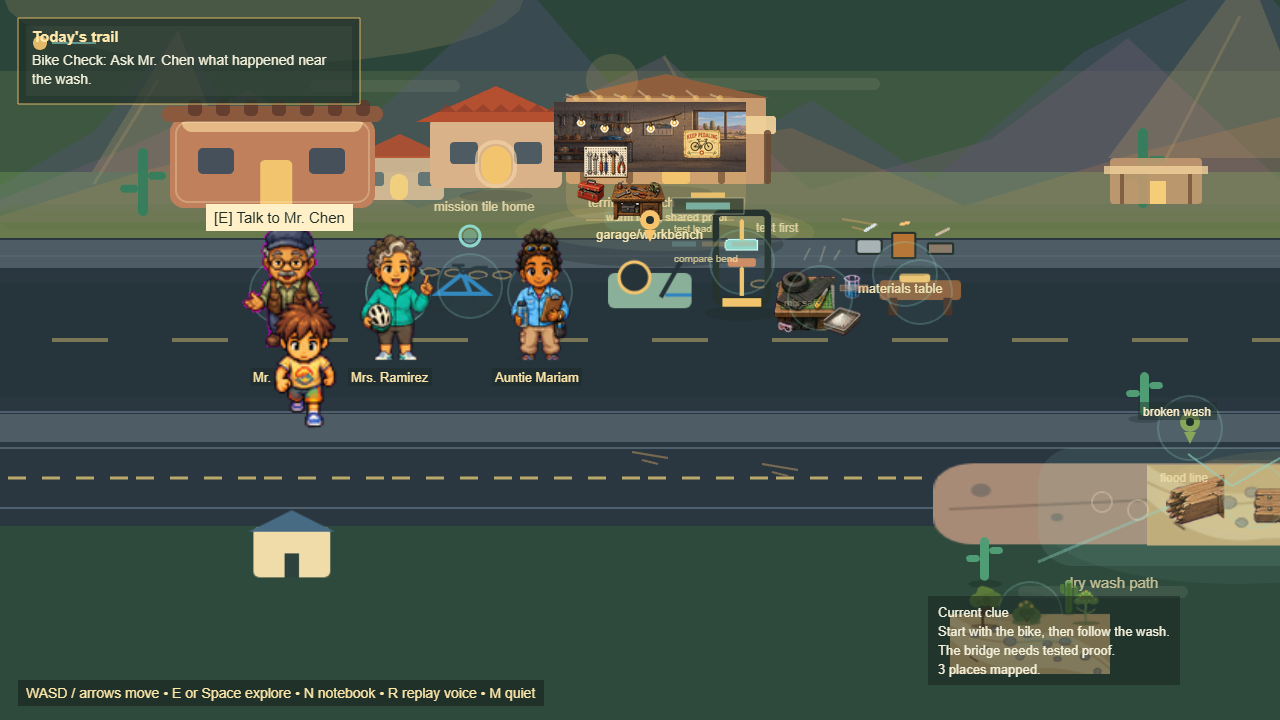
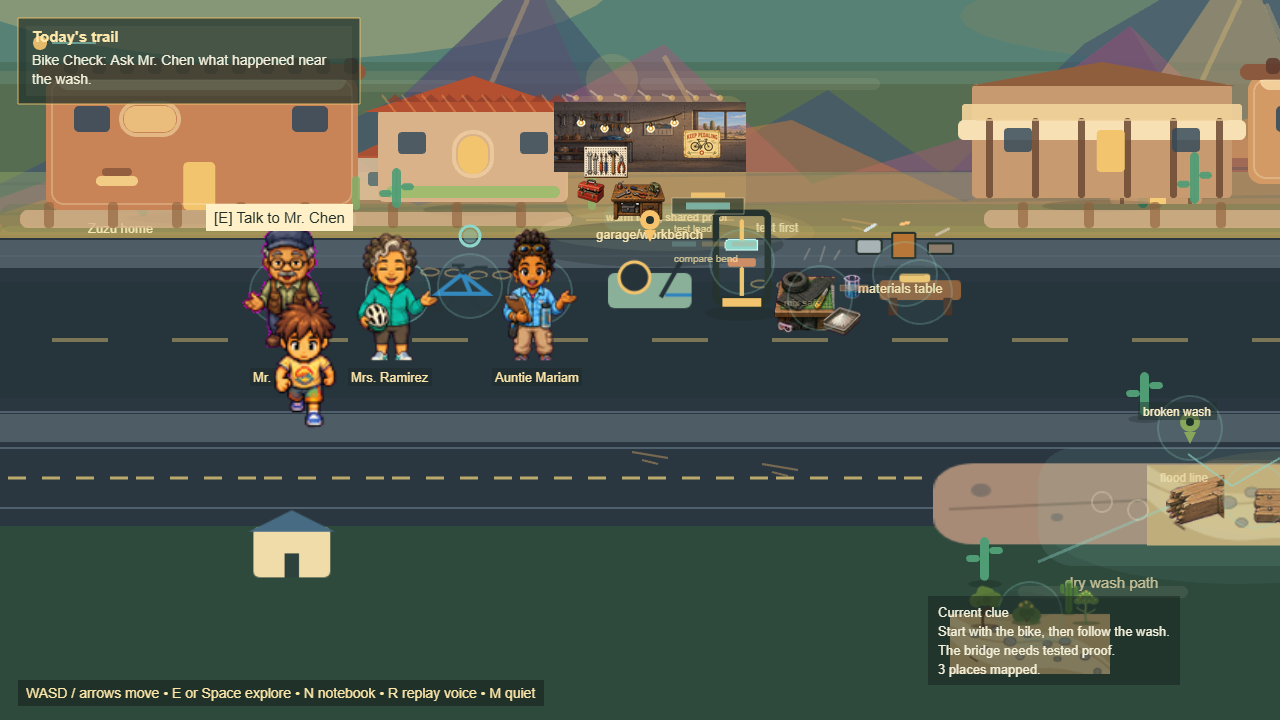
Strengthen Act 1 Arizona neighborhood backdrop

Changed region(s): [[0.0, 0.0, 1.0, 0.5194]]

diff --git a/src/game/phaser/scenes/NeighborhoodScene.js b/src/game/phaser/scenes/NeighborhoodScene.js
@@ -97,8 +97,9 @@ export default class NeighborhoodScene extends Phaser.Scene {
 
   createEnvironment() {
     this.add.rectangle(800, 500, 1600, 1000, 0x2e4a3d);
-    this.add.rectangle(800, 306, 1600, 178, 0x5e7249).setAlpha(0.34);
-    this.add.rectangle(800, 162, 1600, 110, 0x243b37).setAlpha(0.32);
+    this.add.rectangle(800, 238, 1600, 286, 0x7fb08f).setAlpha(0.22);
+    this.add.rectangle(800, 306, 1600, 178, 0x8a8d57).setAlpha(0.3);
+    this.add.rectangle(800, 128, 1600, 160, 0x7db3b8).setAlpha(0.2);
     this.drawSonoranVista();
     this.drawNeighborhoodColorLanguage();
 
@@ -201,37 +202,49 @@ export default class NeighborhoodScene extends Phaser.Scene {
 
   drawSonoranVista() {
     const vista = this.add.graphics();
-    vista.fillStyle(0xffd17a, 0.14).fillEllipse(264, 144, 520, 132);
-    vista.fillStyle(0xfff0c7, 0.12).fillEllipse(860, 118, 740, 56);
+    vista.fillStyle(0x8ed6c9, 0.16).fillRect(0, 0, 1600, 230);
+    vista.fillStyle(0xffd17a, 0.28).fillEllipse(282, 118, 680, 176);
+    vista.fillStyle(0xfff0c7, 0.2).fillEllipse(890, 98, 900, 70);
+    vista.fillStyle(0xf28f45, 0.1).fillEllipse(1240, 162, 560, 96);
 
     // Layered basin-and-range silhouettes, with softer Sonoran colors than the old triangle peaks.
     this.drawMountainRange(vista, [
-      [0, 332], [96, 276], [178, 176], [268, 316], [382, 254], [520, 126],
-      [686, 318], [812, 246], [932, 326], [1084, 198], [1248, 116],
-      [1390, 286], [1540, 178], [1600, 232], [1600, 356], [0, 356],
-    ], 0x4d526d, 0.42);
+      [0, 330], [88, 286], [172, 198], [268, 304], [402, 242], [532, 118],
+      [692, 314], [828, 236], [946, 322], [1084, 190], [1242, 98],
+      [1396, 276], [1542, 170], [1600, 224], [1600, 358], [0, 358],
+    ], 0x3f536f, 0.64);
     this.drawMountainRange(vista, [
-      [0, 346], [132, 292], [250, 236], [384, 332], [520, 274],
-      [664, 202], [810, 336], [990, 286], [1128, 184], [1288, 334],
-      [1438, 258], [1600, 318], [1600, 368], [0, 368],
-    ], 0x755c76, 0.34);
+      [0, 344], [122, 300], [254, 230], [390, 328], [520, 266],
+      [664, 190], [812, 330], [990, 276], [1130, 172], [1288, 324],
+      [1438, 248], [1600, 310], [1600, 372], [0, 372],
+    ], 0x9b5b75, 0.54);
     this.drawMountainRange(vista, [
-      [0, 362], [140, 318], [268, 286], [418, 354], [612, 302],
-      [792, 274], [964, 352], [1134, 300], [1300, 258], [1468, 344],
-      [1600, 314], [1600, 384], [0, 384],
-    ], 0xb7764a, 0.25);
+      [0, 360], [142, 314], [268, 284], [418, 352], [612, 298],
+      [792, 266], [964, 348], [1134, 296], [1300, 250], [1468, 338],
+      [1600, 306], [1600, 386], [0, 386],
+    ], 0xd47b3d, 0.46);
 
-    vista.fillStyle(0xf2c46d, 0.18);
-    vista.fillTriangle(92, 318, 178, 176, 234, 318);
-    vista.fillTriangle(1108, 304, 1248, 116, 1322, 304);
-    vista.fillTriangle(1288, 334, 1438, 258, 1490, 334);
-    vista.lineStyle(3, 0xffd17a, 0.14);
-    vista.lineBetween(158, 226, 94, 330);
-    vista.lineBetween(1240, 162, 1158, 320);
-    vista.lineBetween(664, 202, 728, 316);
+    vista.fillStyle(0xffc76b, 0.34);
+    vista.fillTriangle(86, 318, 172, 198, 238, 318);
+    vista.fillTriangle(1104, 304, 1242, 98, 1328, 304);
+    vista.fillTriangle(1282, 330, 1438, 248, 1502, 330);
+    vista.fillStyle(0x704071, 0.28);
+    vista.fillTriangle(404, 242, 532, 118, 614, 300);
+    vista.fillTriangle(992, 276, 1130, 172, 1218, 318);
+    vista.lineStyle(5, 0xffd17a, 0.28);
+    for (const [x1, y1, x2, y2] of [
+      [158, 226, 94, 330], [182, 220, 242, 322], [1240, 146, 1158, 320],
+      [1266, 150, 1340, 318], [664, 202, 728, 316], [536, 126, 466, 288],
+    ]) {
+      vista.lineBetween(x1, y1, x2, y2);
+    }
 
-    vista.fillStyle(0x8bbf65, 0.28).fillRect(0, 318, 1600, 70);
-    vista.fillStyle(0x5e7249, 0.24).fillRoundedRect(0, 350, 1600, 26, 12);
+    vista.lineStyle(3, 0x2f3f58, 0.24);
+    vista.lineBetween(0, 330, 1600, 310);
+    vista.lineBetween(0, 360, 1600, 338);
+    vista.fillStyle(0xa8b86d, 0.36).fillRect(0, 318, 1600, 70);
+    vista.fillStyle(0x637d4e, 0.34).fillRoundedRect(0, 350, 1600, 28, 12);
+    vista.fillStyle(0xd9b36a, 0.18).fillRoundedRect(0, 372, 1600, 20, 10);
     for (const [x, y, h] of [[138, 362, 68], [226, 348, 84], [1138, 354, 80], [1470, 344, 96]]) {
       vista.fillStyle(0x2f7f5c, 0.88).fillRoundedRect(x, y - h, 10, h, 5);
       vista.fillRoundedRect(x - 18, y - h * 0.46, 18, 8, 4);
@@ -278,14 +291,21 @@ export default class NeighborhoodScene extends Phaser.Scene {
   }
 
   drawSouthwestHomes() {
-    this.drawPuebloRevivalHome(170, 246, 205, 108, {
-      body: 0xbf805b,
-      trim: 0xe7bd88,
+    this.drawPuebloRevivalHome(46, 204, 312, 152, {
+      body: 0xc88457,
+      trim: 0xf0c997,
       door: 0xf2c46d,
       label: 'Zuzu home',
     });
-    this.drawMissionTileHome(416, 230, 160, 104);
-    this.drawTerritorialPorchHome(566, 220, 200, 110);
+    this.drawMissionTileHome(364, 220, 218, 128);
+    this.drawTerritorialPorchHome(972, 208, 260, 136);
+    this.drawPuebloRevivalHome(1248, 204, 232, 126, {
+      body: 0xd39a66,
+      trim: 0xf3d19d,
+      door: 0xf2c46d,
+      label: '',
+    });
+    this.drawLowDesertWalls();
   }
 
   drawPuebloRevivalHome(x, y, w, h, options = {}) {
@@ -303,8 +323,12 @@ export default class NeighborhoodScene extends Phaser.Scene {
     g.fillStyle(options.door || 0xf2c46d, 1).fillRoundedRect(x + w * 0.44, y + h - 48, 32, 48, 5);
     g.fillStyle(0x31485a, 0.86).fillRoundedRect(x + 28, y + 48, 36, 26, 5);
     g.fillRoundedRect(x + w - 66, y + 48, 36, 26, 5);
+    g.fillStyle(0xf7d48a, 0.72).fillRoundedRect(x + 78, y + 48, 52, 26, 12);
+    g.lineStyle(4, 0xe7bd88, 0.92).strokeRoundedRect(x + 75, y + 45, 58, 32, 16);
+    g.fillStyle(0xf7d48a, 0.9).fillRoundedRect(x + w * 0.16, y + h - 34, 42, 10, 5);
+    g.fillStyle(0x7c4e35, 0.7).fillRoundedRect(x + w * 0.16 + 6, y + h - 42, 30, 8, 4);
     g.lineStyle(2, 0xfff0c7, 0.28).strokeRoundedRect(x + 6, y + 22, w - 12, h - 28, 12);
-    this.add.text(x + 42, y + h + 10, options.label || 'adobe home', labelStyle());
+    if (options.label) this.add.text(x + 42, y + h + 10, options.label, labelStyle());
   }
 
   drawMissionTileHome(x, y, w, h) {
@@ -316,11 +340,16 @@ export default class NeighborhoodScene extends Phaser.Scene {
     for (let tileX = x + 22; tileX < x + w - 20; tileX += 18) {
       g.fillTriangle(tileX, y + 28, tileX + 9, y + 20, tileX + 18, y + 28);
     }
+    for (let tileX = x + 18; tileX < x + w - 18; tileX += 20) {
+      g.lineStyle(2, 0xffb166, 0.34).lineBetween(tileX, y + 21, tileX + 14, y + 39);
+    }
     g.fillStyle(0x31485a, 0.82).fillRoundedRect(x + 34, y + 58, 28, 22, 4);
     g.fillRoundedRect(x + w - 62, y + 58, 28, 22, 4);
     g.fillStyle(0xf2c46d, 1).fillRoundedRect(x + w * 0.5 - 15, y + 62, 30, 38, 15);
     g.lineStyle(4, 0xf5d6a6, 0.62).strokeRoundedRect(x + w * 0.5 - 19, y + 58, 38, 44, 18);
-    this.add.text(x + 18, y + h + 10, 'mission tile home', labelStyle()).setAlpha(0.84);
+    g.fillStyle(0x8bbf65, 0.72).fillRoundedRect(x + 22, y + h - 16, w - 44, 12, 6);
+    g.fillStyle(0x7fb069, 0.8).fillRoundedRect(x - 12, y + h - 26, 8, 34, 4);
+    g.fillRoundedRect(x + w + 6, y + h - 34, 8, 42, 4);
   }
 
   drawTerritorialPorchHome(x, y, w, h) {
@@ -328,6 +357,7 @@ export default class NeighborhoodScene extends Phaser.Scene {
     g.fillStyle(0x17221f, 0.16).fillEllipse(x + w * 0.5, y + h + 8, w * 0.46, 12);
     g.fillStyle(0xc79b6f, 1).fillRoundedRect(x, y + 22, w, h - 22, 5);
     g.fillStyle(0xf0d19a, 0.94).fillRoundedRect(x - 10, y + 42, w + 20, 18, 3);
+    g.fillStyle(0xf7e0b4, 1).fillRoundedRect(x - 14, y + 58, w + 28, 20, 6);
     g.fillStyle(0x6b4a33, 0.86);
     for (let postX = x + 14; postX < x + w; postX += 46) {
       g.fillRoundedRect(postX, y + 56, 7, h - 56, 3);
@@ -336,7 +366,24 @@ export default class NeighborhoodScene extends Phaser.Scene {
     g.fillStyle(0x31485a, 0.82).fillRoundedRect(x + 32, y + 66, 28, 24, 4);
     g.fillRoundedRect(x + w - 60, y + 66, 28, 24, 4);
     g.fillStyle(0xf2c46d, 1).fillRoundedRect(x + w * 0.48, y + 68, 28, 42, 4);
-    this.add.text(x + 22, y + h + 10, 'territorial porch', labelStyle()).setAlpha(0.84);
+    g.lineStyle(2, 0xf0d19a, 0.7).lineBetween(x + 4, y + 58, x + w - 4, y + 58);
+  }
+
+  drawLowDesertWalls() {
+    const g = this.add.graphics();
+    g.fillStyle(0xd9b28a, 0.78).fillRoundedRect(20, 356, 336, 18, 8);
+    g.fillRoundedRect(348, 358, 224, 14, 7);
+    g.fillRoundedRect(984, 356, 504, 18, 8);
+    g.fillStyle(0x8f623e, 0.64);
+    for (const x of [44, 108, 172, 236, 300, 388, 452, 516, 1018, 1084, 1150, 1216, 1282, 1348, 1414]) {
+      g.fillRoundedRect(x, 348, 10, 26, 4);
+    }
+    g.fillStyle(0x4f9c75, 0.9);
+    for (const [x, y, h] of [[392, 354, 40], [1190, 350, 52], [1470, 348, 60]]) {
+      g.fillRoundedRect(x, y - h, 9, h, 5);
+      g.fillRoundedRect(x - 13, y - h * 0.45, 13, 7, 4);
+      g.fillRoundedRect(x + 9, y - h * 0.62, 13, 7, 4);
+    }
   }
 
   drawDesertDetails() {
